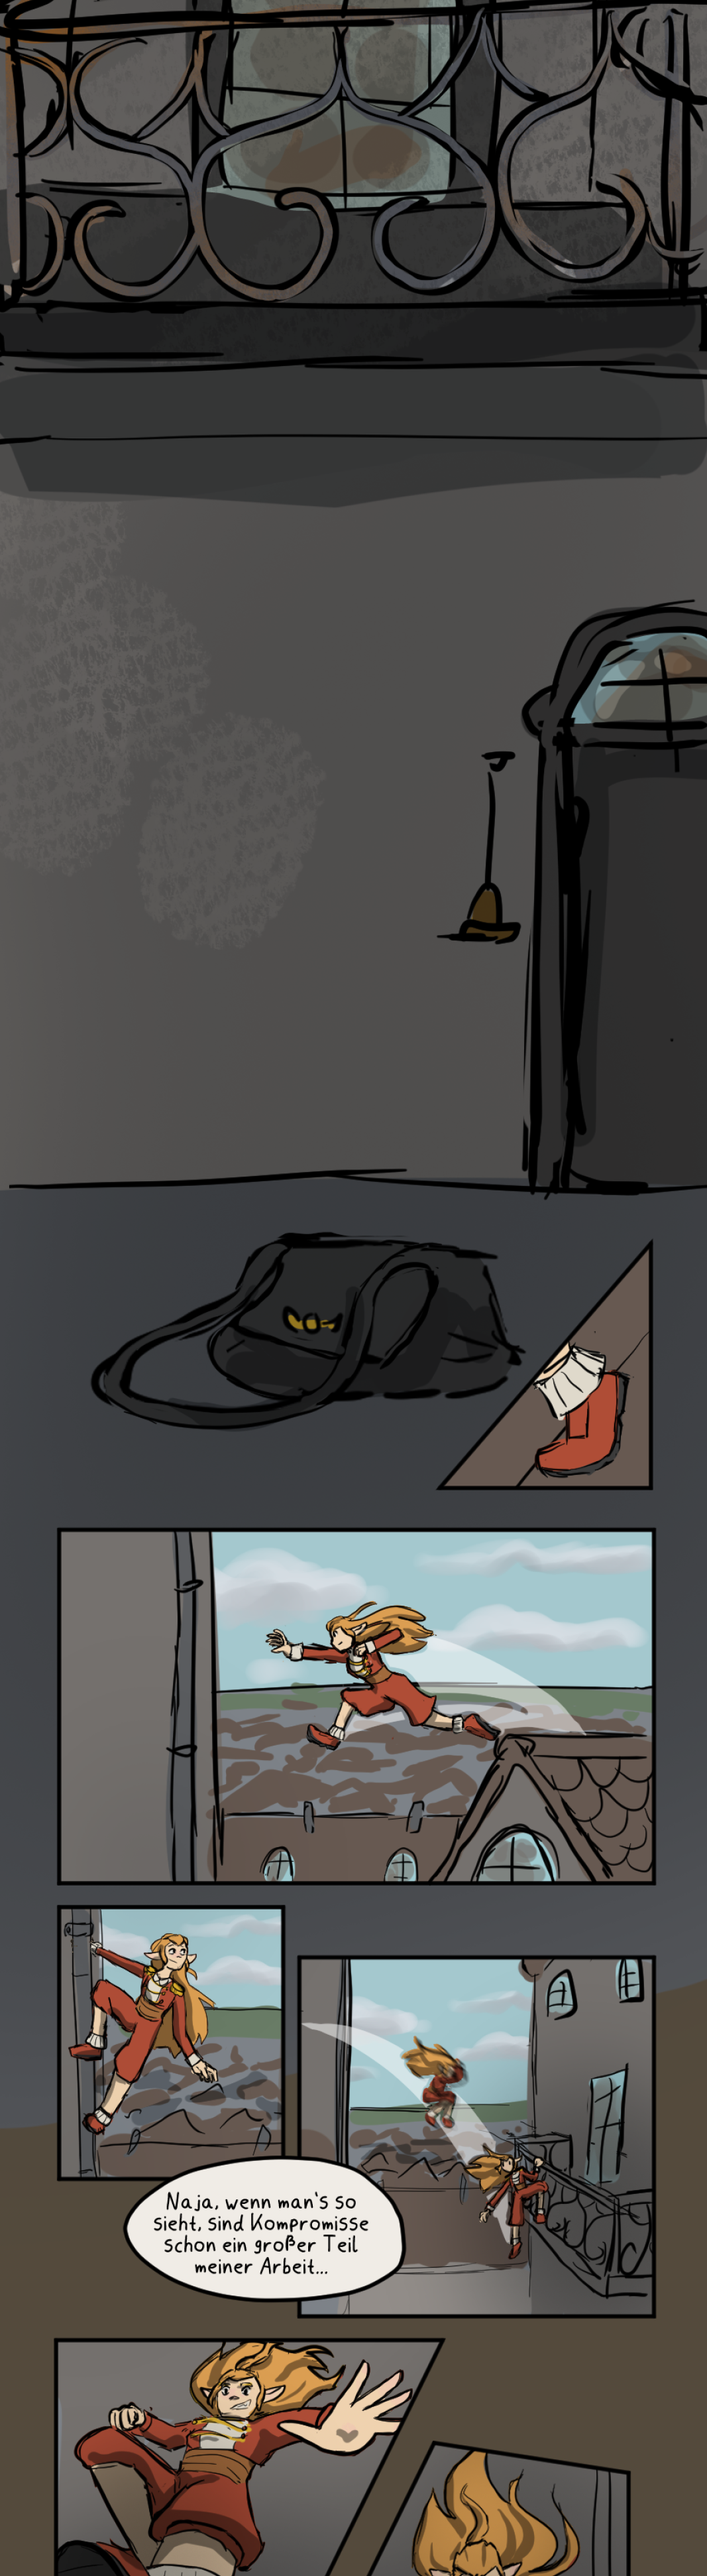
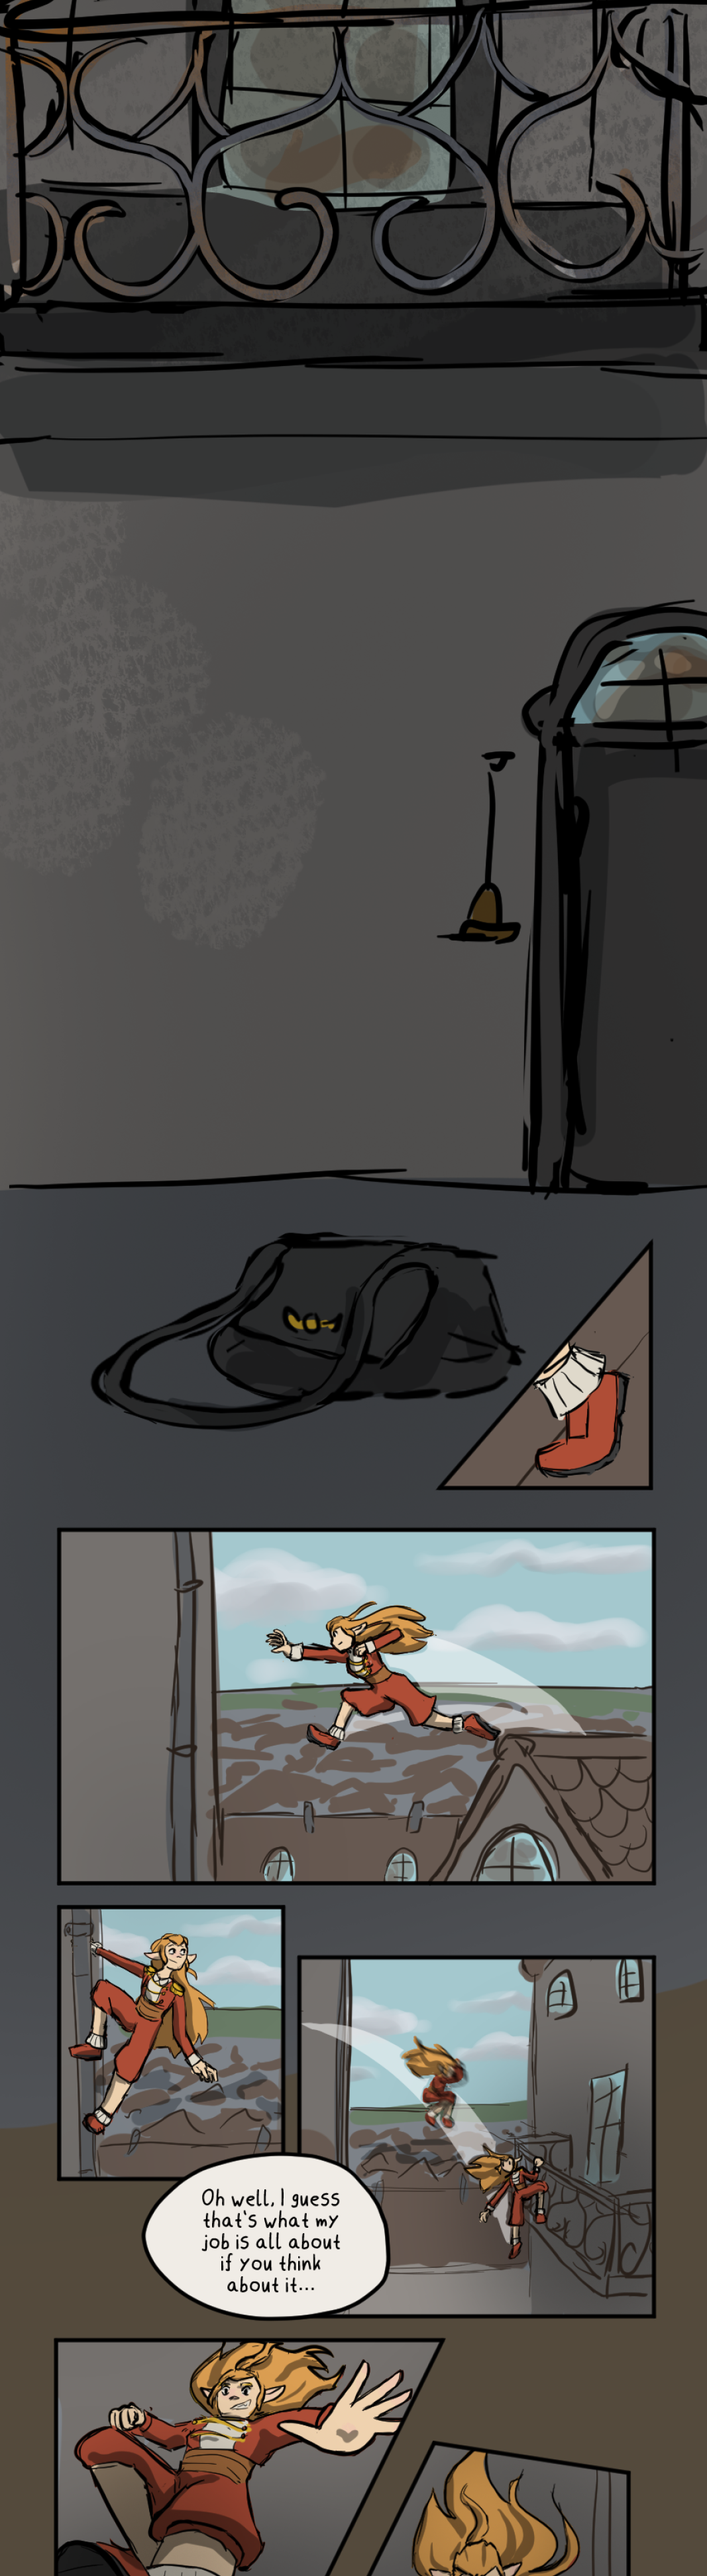
Added Ch1 Ep1

diff --git a/Episode Pages DE/Arc 1/Ch1.html b/Episode Pages DE/Arc 1/Ch1.html
@@ -432,13 +432,13 @@ ul {
 
 </style>
 
-  </head>
+</head>
 
 <body>
   <!--Top Bar-->
   <div class="top-bar"> <!--update-->
       <h4 class="head">Chapter 1</h4>
-      <div id="Title"> <h2 class="head"> Irresistable envalope </h2> </div>
+      <div id="Title"> <h2 class="head"> Ein betörender Brief </h2> </div>
   </div>
 
  <div class="container1">
@@ -446,13 +446,13 @@ ul {
    <svg class="arrow prev" viewBox="0 0 1000 1000" height="25" aria-hidden="true">
   <path d="M800 509 L143 126 L364 505 L145 882 Z"/>
    </svg>
-    <h4 class="row2 text-btn">Previous</h4>
+    <h4 class="row2 text-btn">Vorherige</h4>
   </a>
   
   <a href="../../index.html#Arc-box" class="home" > <h4 class="home-bottom text-btn nav-btn">Home </h4> </a>
   
   <a class="nav-btn next" >
-    <h4 class="row2 text-btn">Next</h4>
+    <h4 class="row2 text-btn">Nächste</h4>
     <svg
     class="arrow"
     viewBox="0 0 1000 1000"
@@ -472,12 +472,9 @@ ul {
       <img id="top-right" src="../../Img/corner top right.webp" width="40px" height="40px" alt=""/>
     </div>
 
-   
+   <h2 class="episode-headline">Wähle Episode:</h2>
    <ul class="chapter1">
-  <li class="episode-selection"><a href="#episode1" class="episode">Episode 1</a></li>
-  <li class="episode-selection"><a href="#episode2" class="episode">Episode 2</a></li>
-  <li class="episode-selection"><a href="#episode3" class="episode">Episode 3</a></li>
-  <li class="episode-selection"><a href="#episode4" class="episode">Episode 4 <span class="new-badge">(New)</span></a></li>
+  <li class="episode-selection"><a href="#episode1" class="episode">Episode 1</a> <span class="new-badge">(Neu)</span></li>
 </ul>
       
 
@@ -524,34 +521,14 @@ ul {
 <!-- comic -->
 
   <div class="comic">
-   <img id="episode1" src="0_Prolouge/Prolouge_001.webp" loading="eager" fetchpriority="high" alt="Chains of Freedom - Chapter 0, Page 1"/>
-    <img  src="0_Prolouge/Prolouge_002.webp" alt="Chains of Freedom - Episode 1, Page 2" loading="lazy"/>
-    <img  src="0_Prolouge/Prolouge_003.webp" alt="Chains of Freedom - Episode 1, Page 3" loading="lazy"/>
-    <img  src="0_Prolouge\Prolouge_004.webp" alt="Chains of Freedom - Episode 1, Page 4" loading="lazy"/>
-    <img  src="0_Prolouge\Prolouge_005.webp" alt="Chains of Freedom - Episode 1, Page 5" loading="lazy"/>
-    <img  src="0_Prolouge\Prolouge_006.webp" alt="Chains of Freedom - Episode 1, Page 6" loading="lazy"/>
-    <img  src="0_Prolouge\Prolouge_007.webp" alt="Chains of Freedom - Episode 1, Page 7" loading="lazy"/>
-    <img  src="0_Prolouge\Prolouge_008.webp" alt="Chains of Freedom - Episode 1, Page 8" loading="lazy"/>
-    <img id="episode2" src="0_Prolouge\Prolouge 1_001.webp" alt="Chains of Freedom - Episode 2, Page 9" loading="lazy"/>
-    <img  src="0_Prolouge\Prolouge 1_002.webp" alt="Chains of Freedom - Episode 2, Page 10" loading="lazy"/>
-    <img  src="0_Prolouge\Prolouge 1_003.webp" alt="Chains of Freedom - Episode 2, Page 11" loading="lazy"/>
-    <img  src="0_Prolouge\Prolouge 1_004.webp" alt="Chains of Freedom - Episode 2, Page 12" loading="lazy"/>
-    <img  src="0_Prolouge\Prolouge 1_005.webp" alt="Chains of Freedom - Episode 2, Page 13" loading="lazy"/>
-    <img  src="0_Prolouge\Prolouge 1_006.webp" alt="Chains of Freedom - Episode 2, Page 14" loading="lazy"/>
-    <img  src="0_Prolouge\Prolouge 1_007.webp" alt="Chains of Freedom - Episode 2, Page 15" loading="lazy"/>
-    <img  src="0_Prolouge\Prolouge 1_008.webp" alt="Chains of Freedom - Episode 2, Page 16" loading="lazy"/>
-    <img id="episode3" src="0_Prolouge\Prolouge 1_009.webp" alt="Chains of Freedom - Episode 2, Page 16" loading="lazy"/>
-    <img  src="0_Prolouge\Prolouge 1_010.webp" alt="Chains of Freedom - Episode 2, Page 16" loading="lazy"/>
-    <img  src="0_Prolouge\Prolouge 1_010.webp" alt="Chains of Freedom - Episode 2, Page 16" loading="lazy"/>
-    <img  src="0_Prolouge\Prolouge 2_001.webp" alt="Chains of Freedom - Episode 2, Page 17" loading="lazy"/>
-    <img  src="0_Prolouge\Prolouge 2_002.webp" alt="Chains of Freedom - Episode 2, Page 18" loading="lazy"/>
-    <img  src="0_Prolouge\Prolouge 2_003.webp" alt="Chains of Freedom - Episode 2, Page 19" loading="lazy"/>
-    <img  src="0_Prolouge\Prolouge 2_004.webp" alt="Chains of Freedom - Episode 2, Page 20" loading="lazy"/>
-    <img id="episode4" src="0_Prolouge\Prolouge 2_005.webp" alt="Chains of Freedom - Episode 2, Page 21" loading="lazy"/>
-    <img  src="0_Prolouge\Prolouge 2_006.webp" alt="Chains of Freedom - Episode 2, Page 22" loading="lazy"/>
-    <img  src="0_Prolouge\Prolouge 2_007.webp" alt="Chains of Freedom - Episode 2, Page 23" loading="lazy"/>
-    <img  src="0_Prolouge\Prolouge 2_008.webp" alt="Chains of Freedom - Episode 2, Page 24" loading="lazy"/>
-    <img  src="0_Prolouge\Prolouge 2_009.webp" alt="Chains of Freedom - Episode 2, Page 25" loading="lazy"/>
+   <img id="episode1" src="Chapter 1/Ep1_001.webp" loading="eager" fetchpriority="high" alt="Chains of Freedom - Chapter 0, Page 1"/>
+    <img  src="Chapter 1/Ep1_002.webp" alt="Chains of Freedom - Episode 1, Page 2" loading="lazy"/>
+    <img  src="Chapter 1/Ep1_003.webp" alt="Chains of Freedom - Episode 1, Page 3" loading="lazy"/>
+    <img  src="Chapter 1\Ep1_004.webp" alt="Chains of Freedom - Episode 1, Page 4" loading="lazy"/>
+    <img  src="Chapter 1\Ep1_005.webp" alt="Chains of Freedom - Episode 1, Page 5" loading="lazy"/>
+    <img  src="Chapter 1\Ep1_006.webp" alt="Chains of Freedom - Episode 1, Page 6" loading="lazy"/>
+    <img  src="Chapter 1\Ep1_007.webp" alt="Chains of Freedom - Episode 1, Page 7" loading="lazy"/>
+    <img  src="Chapter 1\Ep1_008.webp" alt="Chains of Freedom - Episode 1, Page 8" loading="lazy"/>
   </div>
    
   
@@ -574,13 +551,13 @@ ul {
    <svg class="arrow prev" viewBox="0 0 1000 1000" height="25" aria-hidden="true">
   <path d="M800 509 L143 126 L364 505 L145 882 Z"/>
    </svg>
-    <h4 class="row2 text-btn">Previous</h4>
+    <h4 class="row2 text-btn">Vorherige</h4>
   </a>
   
   <a href="../../index.html#Arc-box" class="home" > <h4 class="home-bottom text-btn nav-btn">Home </h4> </a>
   
   <a class="nav-btn next" >
-    <h4 class="row2 text-btn">Next</h4>
+    <h4 class="row2 text-btn">Nnächste</h4>
     <svg
     class="arrow"
     viewBox="0 0 1000 1000"

diff --git a/Episode Pages/Arc 1/Ch1.html b/Episode Pages/Arc 1/Ch1.html
@@ -467,13 +467,13 @@ ul {
    <svg class="arrow prev" viewBox="0 0 1000 1000" height="25" aria-hidden="true">
   <path d="M800 509 L143 126 L364 505 L145 882 Z"/>
    </svg>
-    <h4 class="row2 text-btn">Previous</h4>
+    <h4 class="row2 text-btn">Vorherige</h4>
   </a>
   
   <a href="../../index.html#Arc-box" class="home" > <h4 class="home-bottom text-btn nav-btn">Home </h4> </a>
   
   <a class="nav-btn next" >
-    <h4 class="row2 text-btn">Next</h4>
+    <h4 class="row2 text-btn">Nächste</h4>
     <svg
     class="arrow"
     viewBox="0 0 1000 1000"
@@ -494,12 +494,9 @@ ul {
       <img id="top-right" src="../../Img/corner top right.webp" width="40px" height="40px" alt=""/>
     </div>
 
-   
+   <h2 class="episode-headline">Choose Episode:</h2>
    <ul class="chapter1">
   <li class="episode-selection"><a href="#episode1" class="episode">Episode 1</a></li>
-  <li class="episode-selection"><a href="#episode2" class="episode">Episode 2</a></li>
-  <li class="episode-selection"><a href="#episode3" class="episode">Episode 3</a></li>
-  <li class="episode-selection"><a href="#episode4" class="episode">Episode 4 <span class="new-badge">(New)</span></a></li>
 </ul>
 
 <div class="Ep-vs-Ch">
@@ -561,16 +558,6 @@ ul {
     <img  src="Chapter 1\Ep1_006.webp" alt="Chains of Freedom - Episode 1, Page 6" loading="lazy"/>
     <img  src="Chapter 1\Ep1_007.webp" alt="Chains of Freedom - Episode 1, Page 7" loading="lazy"/>
     <img  src="Chapter 1\Ep1_008.webp" alt="Chains of Freedom - Episode 1, Page 8" loading="lazy"/>
-    <img id="episode2" src="Chapter 1\Ep1_001.webp" alt="Chains of Freedom - Episode 2, Page 9" loading="lazy"/>
-    <img  src="Chapter 1\Ep1_002.webp" alt="Chains of Freedom - Episode 2, Page 10" loading="lazy"/>
-    <img  src="Chapter 1\Ep1_003.webp" alt="Chains of Freedom - Episode 2, Page 11" loading="lazy"/>
-    <img  src="Chapter 1\Ep1_004.webp" alt="Chains of Freedom - Episode 2, Page 12" loading="lazy"/>
-    <img  src="Chapter 1\Ep1_005.webp" alt="Chains of Freedom - Episode 2, Page 13" loading="lazy"/>
-    <img  src="Chapter 1\Ep1_006.webp" alt="Chains of Freedom - Episode 2, Page 14" loading="lazy"/>
-    <img  src="Chapter 1\Ep1_007.webp" alt="Chains of Freedom - Episode 2, Page 15" loading="lazy"/>
-    <img  src="Chapter 1\Ep1_008.webp" alt="Chains of Freedom - Episode 2, Page 16" loading="lazy"/>
-    <img  src="Chapter 1\Ep1_009.webp" alt="Chains of Freedom - Episode 2, Page 16" loading="lazy"/>
-   
   </div>
    
   
@@ -593,13 +580,13 @@ ul {
    <svg class="arrow prev" viewBox="0 0 1000 1000" height="25" aria-hidden="true">
   <path d="M800 509 L143 126 L364 505 L145 882 Z"/>
    </svg>
-    <h4 class="row2 text-btn">Previous</h4>
+    <h4 class="row2 text-btn">Vorherige</h4>
   </a>
   
   <a href="../../index.html#Arc-box" class="home" > <h4 class="home-bottom text-btn nav-btn">Home </h4> </a>
   
   <a class="nav-btn next" >
-    <h4 class="row2 text-btn">Next</h4>
+    <h4 class="row2 text-btn">Nächste</h4>
     <svg
     class="arrow"
     viewBox="0 0 1000 1000"

diff --git a/index DE.html b/index DE.html
@@ -1045,7 +1045,7 @@
     <ul class="nav-bar" id="nav-bar">
       <li class="nav-button" id="selected"><a href="index DE.html">Home</a></li>
       <!-- Update!!! and copy to other pages -->
-      <li class="nav-button"><a href="Episode Pages DE/Arc 1/prolog.html#episode1">Neueste Episode</a></li>
+      <li class="nav-button"><a data-link="NeuEp">Neueste Episode</a></li>
       <li class="nav-button"><a href="Characters/Characters DE.html">Charaktere</a></li>
       <li class="nav-button"><a href="Support me/Support Me DE.html">Unterstützt mich</a></li>
       <li style="text-decoration: line-through;" class="disabled"><a href="#" class="disabled">Bonus</a></li>
@@ -1061,7 +1061,7 @@
     engFlag.addEventListener("mouseover", () => { engFlag.src = "Img/Eng on.webp"; });
     engFlag.addEventListener("mouseout", () => { engFlag.src = "Img/Eng off.webp"; });
   </script>
-
+  
   <hr style="color:#1d1815">
 
 
@@ -1157,7 +1157,7 @@
     <div class="button-deco">
       <img src="Img/button deco left long.webp" class="button-deco-img-L left" alt="" />
 
-      <a href="Episode Pages DE/Arc 1/prolog.html#episode1" class="newest-shiat-btn">
+      <a data-link="NeuEp" class="newest-shiat-btn">
         Lies die neueste Episode!
       </a>
 
@@ -1194,8 +1194,8 @@
             <div class="g-border">
               <h1 class="Arc"> Issue 1: Aufbruch aus Babel</h1>
               <ul>
-                <li><a href="Episode Pages\Arc 1\prolog.html" class="chapter">Prolog</a></li>
-                <li><a href="Episode Pages\Arc 1\Ch1.html" class="chapter">Kapitel 1</a></li>
+                <li><a href="Episode Pages DE\Arc 1\prolog.html" class="chapter">Prolog</a></li>
+                <li><a href="Episode Pages DE\Arc 1\Ch1.html" class="chapter">Kapitel 1</a></li>
                 <li><a href="#" id="unreleased" class="chapter">Kapitel 2</a></li>
                 <li><a href="#" id="unreleased" class="chapter">Kapitel 3</a></li>
               </ul>
@@ -1284,7 +1284,7 @@
     </p>
   </div>
 </div>
-
+<script src="const links.js"></script>
 </body>
 
 </html>

diff --git a/index.html b/index.html
@@ -1036,7 +1036,7 @@
     <ul class="nav-bar" id="nav-bar">
       <li class="nav-button" id="selected"><a href="index.html">Home</a></li>
       <!-- Update!!! and copy to other pages -->
-      <li class="nav-button"><a href="Episode Pages/Arc 1/prolog.html#episode1">Latest Episode</a></li>
+      <li class="nav-button"><a data-link="NewEp">Latest Episode</a></li>
       <li class="nav-button"><a href="Characters/Characters.html">Characters</a></li>
       <li class="nav-button"><a href="Support me/Support Me.html">Support Me</a></li>
       <li style="text-decoration: line-through;" class="disabled"><a href="#" class="disabled">Bonus</a></li>
@@ -1051,6 +1051,7 @@
     const deuFlag = document.getElementById("deuFlag");
     deuFlag.addEventListener("mouseover", () => { deuFlag.src = "Img/Deu on.webp"; });
     deuFlag.addEventListener("mouseout", () => { deuFlag.src = "Img/Deu off.webp"; });
+
   </script>
 
   <hr style="color:#1d1815">
@@ -1150,7 +1151,7 @@
     <div class="button-deco">
       <img src="Img/button deco left long.webp" class="button-deco-img-L left" alt="" />
 
-      <a href="Episode Pages/Arc 1/prolog.html#episode1" class="newest-shiat-btn">
+      <a data-link="NewEp" class="newest-shiat-btn">
         Jump to latest Episode
       </a>
 
@@ -1273,7 +1274,7 @@
     </p>
   </div>
 </div>
-
+<script src="const links.js"></script>
 </body>
 
 </html>

diff --git a/Episode Pages DE/Arc 1/prolog.html b/Episode Pages DE/Arc 1/prolog.html
@@ -449,7 +449,7 @@ ul {
   <!--///////////////////////////////////////////////-->
   <div class="top-bar"> <!--update-->
       <h4 class="head">Prolog</h4>
-      <div id="Title"> <h2 class="head"> der einsame freie Jäger </h2> </div>
+      <div id="Title"> <h2 class="head"> Der einsame freie Jäger </h2> </div>
   </div>
 
  <div class="container1">
@@ -485,12 +485,12 @@ ul {
       <img id="top-right" src="../../Img/corner top right.webp" width="40px" height="40px" alt=""/>
     </div>
 
-   
+   <h2 class="episode-headline">Wähle Episode:</h2>
   <ul class="chapter1">
     <li class="episode-selection"><a href="#episode1" class="episode">Episode 1</a></li>
     <li class="episode-selection"><a href="#episode2" class="episode">Episode 2</a></li>
     <li class="episode-selection"><a href="#episode3" class="episode">Episode 3</a></li>
-    <li class="episode-selection"><a href="#episode4" class="episode">Episode 4 <span class="new-badge">(Neu)</span></a></li>
+    <li class="episode-selection"><a href="#episode4" class="episode">Episode 4</a></li>
   </ul>
 
   <div class="Ep-vs-Ch">

diff --git a/Support me/Support Me DE.html b/Support me/Support Me DE.html
@@ -88,7 +88,7 @@
     <ul class="nav-bar" id="nav-bar">
       <li class="nav-button" id="selected"><a href="../index DE.html">Home</a></li>
       <!-- Update!!! and copy to other pages -->
-      <li class="nav-button"><a href="../Episode Pages DE/Arc 1/prolog.html#episode1">Neueste Episode</a></li>
+      <li class="nav-button"><a data-link="NeuEp">Neueste Episode</a></li>
       <li class="nav-button"><a href="../Characters/Characters DE.html">Charaktere</a></li>
       <li class="nav-button"><a href="../Support me/Support Me DE.html">Unterstützt mich</a></li>
       <li style="text-decoration: line-through;" class="disabled"><a href="#" class="disabled">Bonus</a></li>
@@ -154,7 +154,7 @@
     </p>
     </div>
 
-
+<script src="../const links.js"></script>
 </body>
 
 </html>

diff --git a/Support me/Support Me.html b/Support me/Support Me.html
@@ -84,7 +84,7 @@
     <ul class="nav-bar" id="nav-bar">
       <li class="nav-button" id="selected"><a href="../index.html">Home</a></li>
       <!-- Update!!! and copy to other pages -->
-      <li class="nav-button"><a href="../Episode Pages/Arc 1/prolog.html#episode1">Latest Episode</a></li>
+      <li class="nav-button"><a data-link="NewEp">Latest Episode</a></li>
       <li class="nav-button"><a href="../Characters/Characters.html">Characters</a></li>
       <li class="nav-button"><a href="../Support me/Support Me.html">Support Me</a></li>
       <li style="text-decoration: line-through;" class="disabled"><a href="#" class="disabled">Bonus</a></li>
@@ -146,7 +146,7 @@
     </p>
     </div>
 
-
+<script src="../const links.js"></script>
 </body>
 
 </html>

diff --git a/Characters/Characters DE.html b/Characters/Characters DE.html
@@ -85,7 +85,7 @@
     <ul class="nav-bar" id="nav-bar">
       <li class="nav-button" id="selected"><a href="../index DE.html">Home</a></li>
       <!-- Update!!! and copy to other pages -->
-      <li class="nav-button"><a href="../Episode Pages DE/Arc 1/prolog.html#episode1">Neueste Episode</a></li>
+      <li class="nav-button"><a data-link="NeuEp">Neueste Episode</a></li>
       <li class="nav-button"><a href="../Characters/Characters DE.html">Charaktere</a></li>
       <li class="nav-button"><a href="../Support me/Support Me DE.html">Unterstützt mich</a></li>
       <li style="text-decoration: line-through;" class="disabled"><a href="#" class="disabled">Bonus</a></li>

diff --git a/Characters/Characters.html b/Characters/Characters.html
@@ -81,7 +81,7 @@
     <ul class="nav-bar" id="nav-bar">
       <li class="nav-button" id="selected"><a href="../index.html">Home</a></li>
       <!-- Update!!! and copy to other pages -->
-      <li class="nav-button"><a href="../Episode Pages/Arc 1/prolog.html#episode1">Latest Episode</a></li>
+      <li class="nav-button"><a data-link="NewEp">Latest Episode</a></li>
       <li class="nav-button"><a href="../Characters/Characters.html">Characters</a></li>
       <li class="nav-button"><a href="../Support me/Support Me.html">Support Me</a></li>
       <li style="text-decoration: line-through;" class="disabled"><a href="#" class="disabled">Bonus</a></li>

diff --git a/datenschutz erklärung.html b/datenschutz erklärung.html
@@ -90,7 +90,7 @@
 
         <h2>Impressum</h2>
         <p><strong>Chains of Freedom</strong></p>
-        <p>Kontakt: <a href="mailto:impressum.chains.of.freedom@gmail.com">impressum.chains.of.freedom@gmail.com</a></p>
+        <p>Kontakt: <a href="mailto:irgendwas.mit.mj@gmail.com">irgendwas.mit.mj@gmail.com</a></p>
         <p>Hinweis: Private Website ohne gewerbliche Nutzung.</p>
     </div>
 

diff --git a/Episode Pages/Arc 1/prolog.html b/Episode Pages/Arc 1/prolog.html
@@ -494,7 +494,7 @@ ul {
       <img id="top-right" src="../../Img/corner top right.webp" width="40px" height="40px" alt=""/>
     </div>
 
-   
+   <h2 class="episode-headline">Choose Episode:</h2>
    <ul class="chapter1">
   <li class="episode-selection"><a href="#episode1" class="episode">Episode 1</a></li>
   <li class="episode-selection"><a href="#episode2" class="episode">Episode 2</a></li>

diff --git a/privacy policy.html b/privacy policy.html
@@ -89,7 +89,7 @@
 
         <h2>Imprint</h2>
         <p><strong>Chains of Freedom</strong></p>
-        <p>Contact: <a href="mailto:impressum.chains.of.freedom@gmail.com">impressum.chains.of.freedom@gmail.com</a></p>
+        <p>Contact: <a href="mailto:irgendwas.mit.mj@gmail.com">irgendwas.mit.mj@gmail.com</a></p>
         <p>Note: Private website without commercial activity.</p>
     </div>
 
